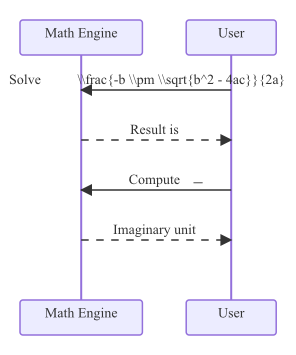
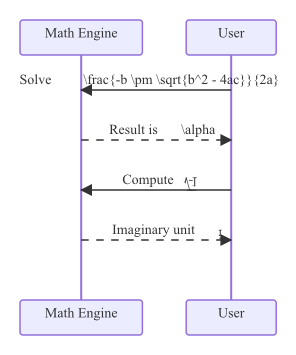
fix(math): correct coordinate units, add unsupported-cmd whitelist
- Fix unit mismatch in svgRenderer: mtex.Render passes w/h in inches but
  canvas ops are in points. Convert to points so Y-flip and dimensions are
  correct.
- Remove erroneous extra scale factor in renderGlyph; LoadGlyph already
  returns coordinates scaled to ppem.
- Add Z to close glyph paths so tdewolff/canvas fills them correctly.
- Add unsupported-command whitelist (only \frac and \sqrt are supported).
  Expressions with unsupported commands (Greek letters, \pm, \times, etc.)
  now fall back to plain text instead of rendering as backslashes.
- Normalize math expressions in Parse so fallback text shows single
  backslashes instead of double.
- Include fontSize in MathSize cache key to avoid wrong-size hits.
- Apply fill colour directly to path/rect elements (not just parent <g>)
  for tdewolff/canvas compatibility.
- Regenerate math example snapshots.

diff --git a/pkg/renderer/math/math.go b/pkg/renderer/math/math.go
@@ -2,6 +2,7 @@ package math
 
 import (
 	"fmt"
+	"regexp"
 	"strings"
 
 	"github.com/go-latex/latex/drawtex"
@@ -10,6 +11,22 @@ import (
 	"golang.org/x/image/font/sfnt"
 	"golang.org/x/image/math/fixed"
 )
+
+var cmdRe = regexp.MustCompile(`\\([a-zA-Z]+)`)
+
+var supportedCmds = map[string]bool{
+	"frac": true,
+	"sqrt": true,
+}
+
+func hasUnsupportedCmd(expr string) bool {
+	for _, m := range cmdRe.FindAllStringSubmatch(expr, -1) {
+		if !supportedCmds[m[1]] {
+			return true
+		}
+	}
+	return false
+}
 
 // Render renders a LaTeX math expression to an SVG fragment.
 // It returns the SVG content (a sequence of <path> and <rect> elements),
@@ -20,6 +37,9 @@ func Render(expr string, fontSize float64) (svg string, w, h float64, err error)
 	expr = normalizeMathExpr(expr)
 	if fontSize <= 0 {
 		fontSize = defaultFontSize
+	}
+	if hasUnsupportedCmd(expr) {
+		return "", 0, 0, fmt.Errorf("math render: unsupported command in expression")
 	}
 	fonts := lm.Fonts()
 	r := &svgRenderer{}
@@ -51,8 +71,11 @@ type svgRenderer struct {
 }
 
 func (r *svgRenderer) Render(w, h, dpi float64, cnv *drawtex.Canvas) error {
-	r.w = w
-	r.h = h
+	// mtex.Render passes w and h in inches (box width/height divided by 72),
+	// but canvas operations (GlyphOp.X/Y, RectOp coordinates) are in points.
+	// Convert to points so the Y-flip in renderGlyph uses the same unit.
+	r.w = w * 72
+	r.h = h * 72
 	r.dpi = dpi
 	var buf sfnt.Buffer
 	for _, op := range cnv.Ops() {
@@ -80,46 +103,43 @@ func (r *svgRenderer) renderGlyph(buf *sfnt.Buffer, op drawtex.GlyphOp) {
 	if err != nil {
 		return
 	}
-	// Convert font units (26.6 fixed point) to SVG coordinates.
-	em := float64(ppem) / 64.0
-	upem := float64(g.Font.UnitsPerEm())
-	scale := em / upem
 
 	var d strings.Builder
 	for _, seg := range segs {
 		switch seg.Op {
 		case sfnt.SegmentOpMoveTo:
 			p := seg.Args[0]
-			x := op.X + float64(p.X)/64*scale
-			y := r.h - (op.Y + float64(p.Y)/64*scale)
+			x := op.X + float64(p.X)/64
+			y := r.h - (op.Y + float64(p.Y)/64)
 			fmt.Fprintf(&d, "M%.3f %.3f ", x, y)
 		case sfnt.SegmentOpLineTo:
 			p := seg.Args[0]
-			x := op.X + float64(p.X)/64*scale
-			y := r.h - (op.Y + float64(p.Y)/64*scale)
+			x := op.X + float64(p.X)/64
+			y := r.h - (op.Y + float64(p.Y)/64)
 			fmt.Fprintf(&d, "L%.3f %.3f ", x, y)
 		case sfnt.SegmentOpQuadTo:
 			p1 := seg.Args[0]
 			p2 := seg.Args[1]
-			x1 := op.X + float64(p1.X)/64*scale
-			y1 := r.h - (op.Y + float64(p1.Y)/64*scale)
-			x2 := op.X + float64(p2.X)/64*scale
-			y2 := r.h - (op.Y + float64(p2.Y)/64*scale)
+			x1 := op.X + float64(p1.X)/64
+			y1 := r.h - (op.Y + float64(p1.Y)/64)
+			x2 := op.X + float64(p2.X)/64
+			y2 := r.h - (op.Y + float64(p2.Y)/64)
 			fmt.Fprintf(&d, "Q%.3f %.3f %.3f %.3f ", x1, y1, x2, y2)
 		case sfnt.SegmentOpCubeTo:
 			p1 := seg.Args[0]
 			p2 := seg.Args[1]
 			p3 := seg.Args[2]
-			x1 := op.X + float64(p1.X)/64*scale
-			y1 := r.h - (op.Y + float64(p1.Y)/64*scale)
-			x2 := op.X + float64(p2.X)/64*scale
-			y2 := r.h - (op.Y + float64(p2.Y)/64*scale)
-			x3 := op.X + float64(p3.X)/64*scale
-			y3 := r.h - (op.Y + float64(p3.Y)/64*scale)
+			x1 := op.X + float64(p1.X)/64
+			y1 := r.h - (op.Y + float64(p1.Y)/64)
+			x2 := op.X + float64(p2.X)/64
+			y2 := r.h - (op.Y + float64(p2.Y)/64)
+			x3 := op.X + float64(p3.X)/64
+			y3 := r.h - (op.Y + float64(p3.Y)/64)
 			fmt.Fprintf(&d, "C%.3f %.3f %.3f %.3f %.3f %.3f ", x1, y1, x2, y2, x3, y3)
 		}
 	}
 	if d.Len() > 0 {
+		fmt.Fprintf(&d, "Z")
 		fmt.Fprintf(&r.sb, `<path d="%s"/>`, d.String())
 	}
 }

diff --git a/pkg/renderer/text/text.go b/pkg/renderer/text/text.go
@@ -47,7 +47,7 @@ func Parse(s string) []Segment {
 			break
 		}
 
-		expr := after[:mathEnd]
+		expr := normalizeMathExpr(after[:mathEnd])
 		result = append(result, Segment{Math: expr})
 		remaining = after[mathEnd+2:]
 	}
@@ -56,6 +56,13 @@ func Parse(s string) []Segment {
 		result = append(result, Segment{Text: s})
 	}
 	return result
+}
+
+// normalizeMathExpr cleans up common escaping issues in math expressions
+// copied from Mermaid sources. Mermaid users often write \\frac when
+// they mean \frac because of Markdown/JSON escaping layers.
+func normalizeMathExpr(expr string) string {
+	return strings.ReplaceAll(expr, `\\`, `\`)
 }
 
 func parseMarkdown(s string) []Segment {
@@ -162,13 +169,18 @@ var (
 	mathSizeCacheMu sync.RWMutex
 )
 
+func mathCacheKey(expr string, fontSize float64) string {
+	return fmt.Sprintf("%s|%.2f", expr, fontSize)
+}
+
 // MathSize returns the rendered width and height of a LaTeX math
 // expression at the given font size, using a package-level cache to
 // avoid re-rendering. On panic or error it falls back to a text-based
 // estimate.
 func MathSize(expr string, fontSize float64) (w, h float64) {
+	key := mathCacheKey(expr, fontSize)
 	mathSizeCacheMu.RLock()
-	if cached, ok := mathSizeCache[expr]; ok {
+	if cached, ok := mathSizeCache[key]; ok {
 		mathSizeCacheMu.RUnlock()
 		return cached.w, cached.h
 	}
@@ -178,7 +190,7 @@ func MathSize(expr string, fontSize float64) (w, h float64) {
 		if r := recover(); r != nil {
 			w = float64(len(expr)) * 7
 			h = 16
-			setMathSizeCache(expr, w, h)
+			setMathSizeCache(key, w, h)
 		}
 	}()
 
@@ -187,17 +199,17 @@ func MathSize(expr string, fontSize float64) (w, h float64) {
 		w = float64(len(expr)) * 7
 		h = 16
 	}
-	setMathSizeCache(expr, w, h)
+	setMathSizeCache(key, w, h)
 	return w, h
 }
 
-func setMathSizeCache(expr string, w, h float64) {
+func setMathSizeCache(key string, w, h float64) {
 	mathSizeCacheMu.Lock()
 	defer mathSizeCacheMu.Unlock()
 	if len(mathSizeCache) >= mathSizeCacheMax {
 		mathSizeCache = make(map[string]struct{ w, h float64 })
 	}
-	mathSizeCache[expr] = struct{ w, h float64 }{w, h}
+	mathSizeCache[key] = struct{ w, h float64 }{w, h}
 }
 
 // ------------------------------------------------------------------
@@ -320,7 +332,10 @@ type MathRenderResult struct {
 
 // RenderMath renders a math expression to SVG elements with optional
 // scaling to fit a target height. Returns nil elements on error.
-func RenderMath(expr string, fontSize, targetH float64) *MathRenderResult {
+// When fill is non-empty it is applied directly to every path and
+// rect element so the output works in renderers (e.g. tdewolff/canvas)
+// that do not support CSS style inheritance from parent <g> nodes.
+func RenderMath(expr string, fontSize, targetH float64, fill string) *MathRenderResult {
 	var svgMath string
 	var mw, mh float64
 	var err error
@@ -339,6 +354,19 @@ func RenderMath(expr string, fontSize, targetH float64) *MathRenderResult {
 	elems := ParseMathSVG(svgMath)
 	if len(elems) == 0 {
 		return nil
+	}
+
+	if fill != "" {
+		style := "fill:" + fill
+		for i, el := range elems {
+			switch e := el.(type) {
+			case *svgutil.Path:
+				e.Style = style
+			case *svgutil.Rect:
+				e.Style = style
+			}
+			elems[i] = el
+		}
 	}
 
 	scale := 1.0

diff --git a/pkg/renderer/mindmap/renderer.go b/pkg/renderer/mindmap/renderer.go
@@ -483,7 +483,8 @@ func renderShapeElements(n *layoutNode, fontSize float64, th Theme) []any {
 			xOff := -totalSegW / 2
 			for _, seg := range segs {
 				if seg.Math != "" {
-					res := richtext.RenderMath(seg.Math, fontSize, lh)
+					fill := extractFill(textStyle)
+					res := richtext.RenderMath(seg.Math, fontSize, lh, fill)
 					if res == nil {
 						// Fallback to plain text on error.
 						children = append(children, &text{
@@ -501,14 +502,10 @@ func renderShapeElements(n *layoutNode, fontSize float64, th Theme) []any {
 						if res.OrigHeight > lh {
 							scale = lh / res.OrigHeight
 						}
-						g := &group{
+						children = append(children, &group{
 							Transform: fmt.Sprintf("translate(%.2f,%.2f) scale(%.3f)", mx, my, scale),
 							Children:  res.Elements,
-						}
-						if fill := extractFill(textStyle); fill != "" {
-							g.Style = "fill:" + fill
-						}
-						children = append(children, g)
+						})
 					}
 				} else {
 					segStyle := textStyle

diff --git a/pkg/renderer/math/math_test.go b/pkg/renderer/math/math_test.go
@@ -38,16 +38,13 @@ func TestRenderFraction(t *testing.T) {
 	}
 }
 
-func TestRenderGreek(t *testing.T) {
-	svg, w, h, err := Render("\\alpha + \\beta", 14)
-	if err != nil {
-		t.Fatalf("render: %v", err)
-	}
-	if w <= 0 || h <= 0 {
-		t.Errorf("invalid dimensions: w=%g, h=%g", w, h)
-	}
-	if !strings.Contains(svg, "path") {
-		t.Error("expected path elements in output")
+func TestRenderGreekUnsupported(t *testing.T) {
+	// Greek letters are not supported by go-latex/mtex; they render as
+	// backslashes. The whitelist rejects them so callers fall back to
+	// plain text.
+	_, _, _, err := Render("\\alpha + \\beta", 14)
+	if err == nil {
+		t.Fatal("expected error for unsupported Greek letters")
 	}
 }
 

diff --git a/pkg/renderer/text/text_test.go b/pkg/renderer/text/text_test.go
@@ -177,7 +177,7 @@ func TestParseMathSVG(t *testing.T) {
 }
 
 func TestRenderMath(t *testing.T) {
-	res := RenderMath(`\frac{1}{2}`, 14, 14)
+	res := RenderMath(`\frac{1}{2}`, 14, 14, "")
 	if res == nil {
 		t.Skip("math rendering not available in test environment")
 	}
@@ -191,7 +191,7 @@ func TestRenderMath(t *testing.T) {
 
 func TestRenderMathUnsupported(t *testing.T) {
 	// Superscript panics in go-latex; should return nil (fallback).
-	res := RenderMath("x^2", 14, 14)
+	res := RenderMath("x^2", 14, 14, "")
 	if res != nil {
 		t.Logf("expected nil for unsupported math, got %+v", res)
 	}

diff --git a/pkg/renderer/text/render.go b/pkg/renderer/text/render.go
@@ -68,7 +68,7 @@ func LabelElements(label string, cx, cy, fontSize float64, anchor, textStyle str
 		fill := extractFill(textStyle)
 		for _, seg := range segs {
 			if seg.Math != "" {
-				res := RenderMath(seg.Math, fontSize, lineHeight)
+				res := RenderMath(seg.Math, fontSize, lineHeight, fill)
 				if res == nil {
 					// Fallback to plain text.
 					fx, fanchor := xOff, svgutil.AnchorStart
